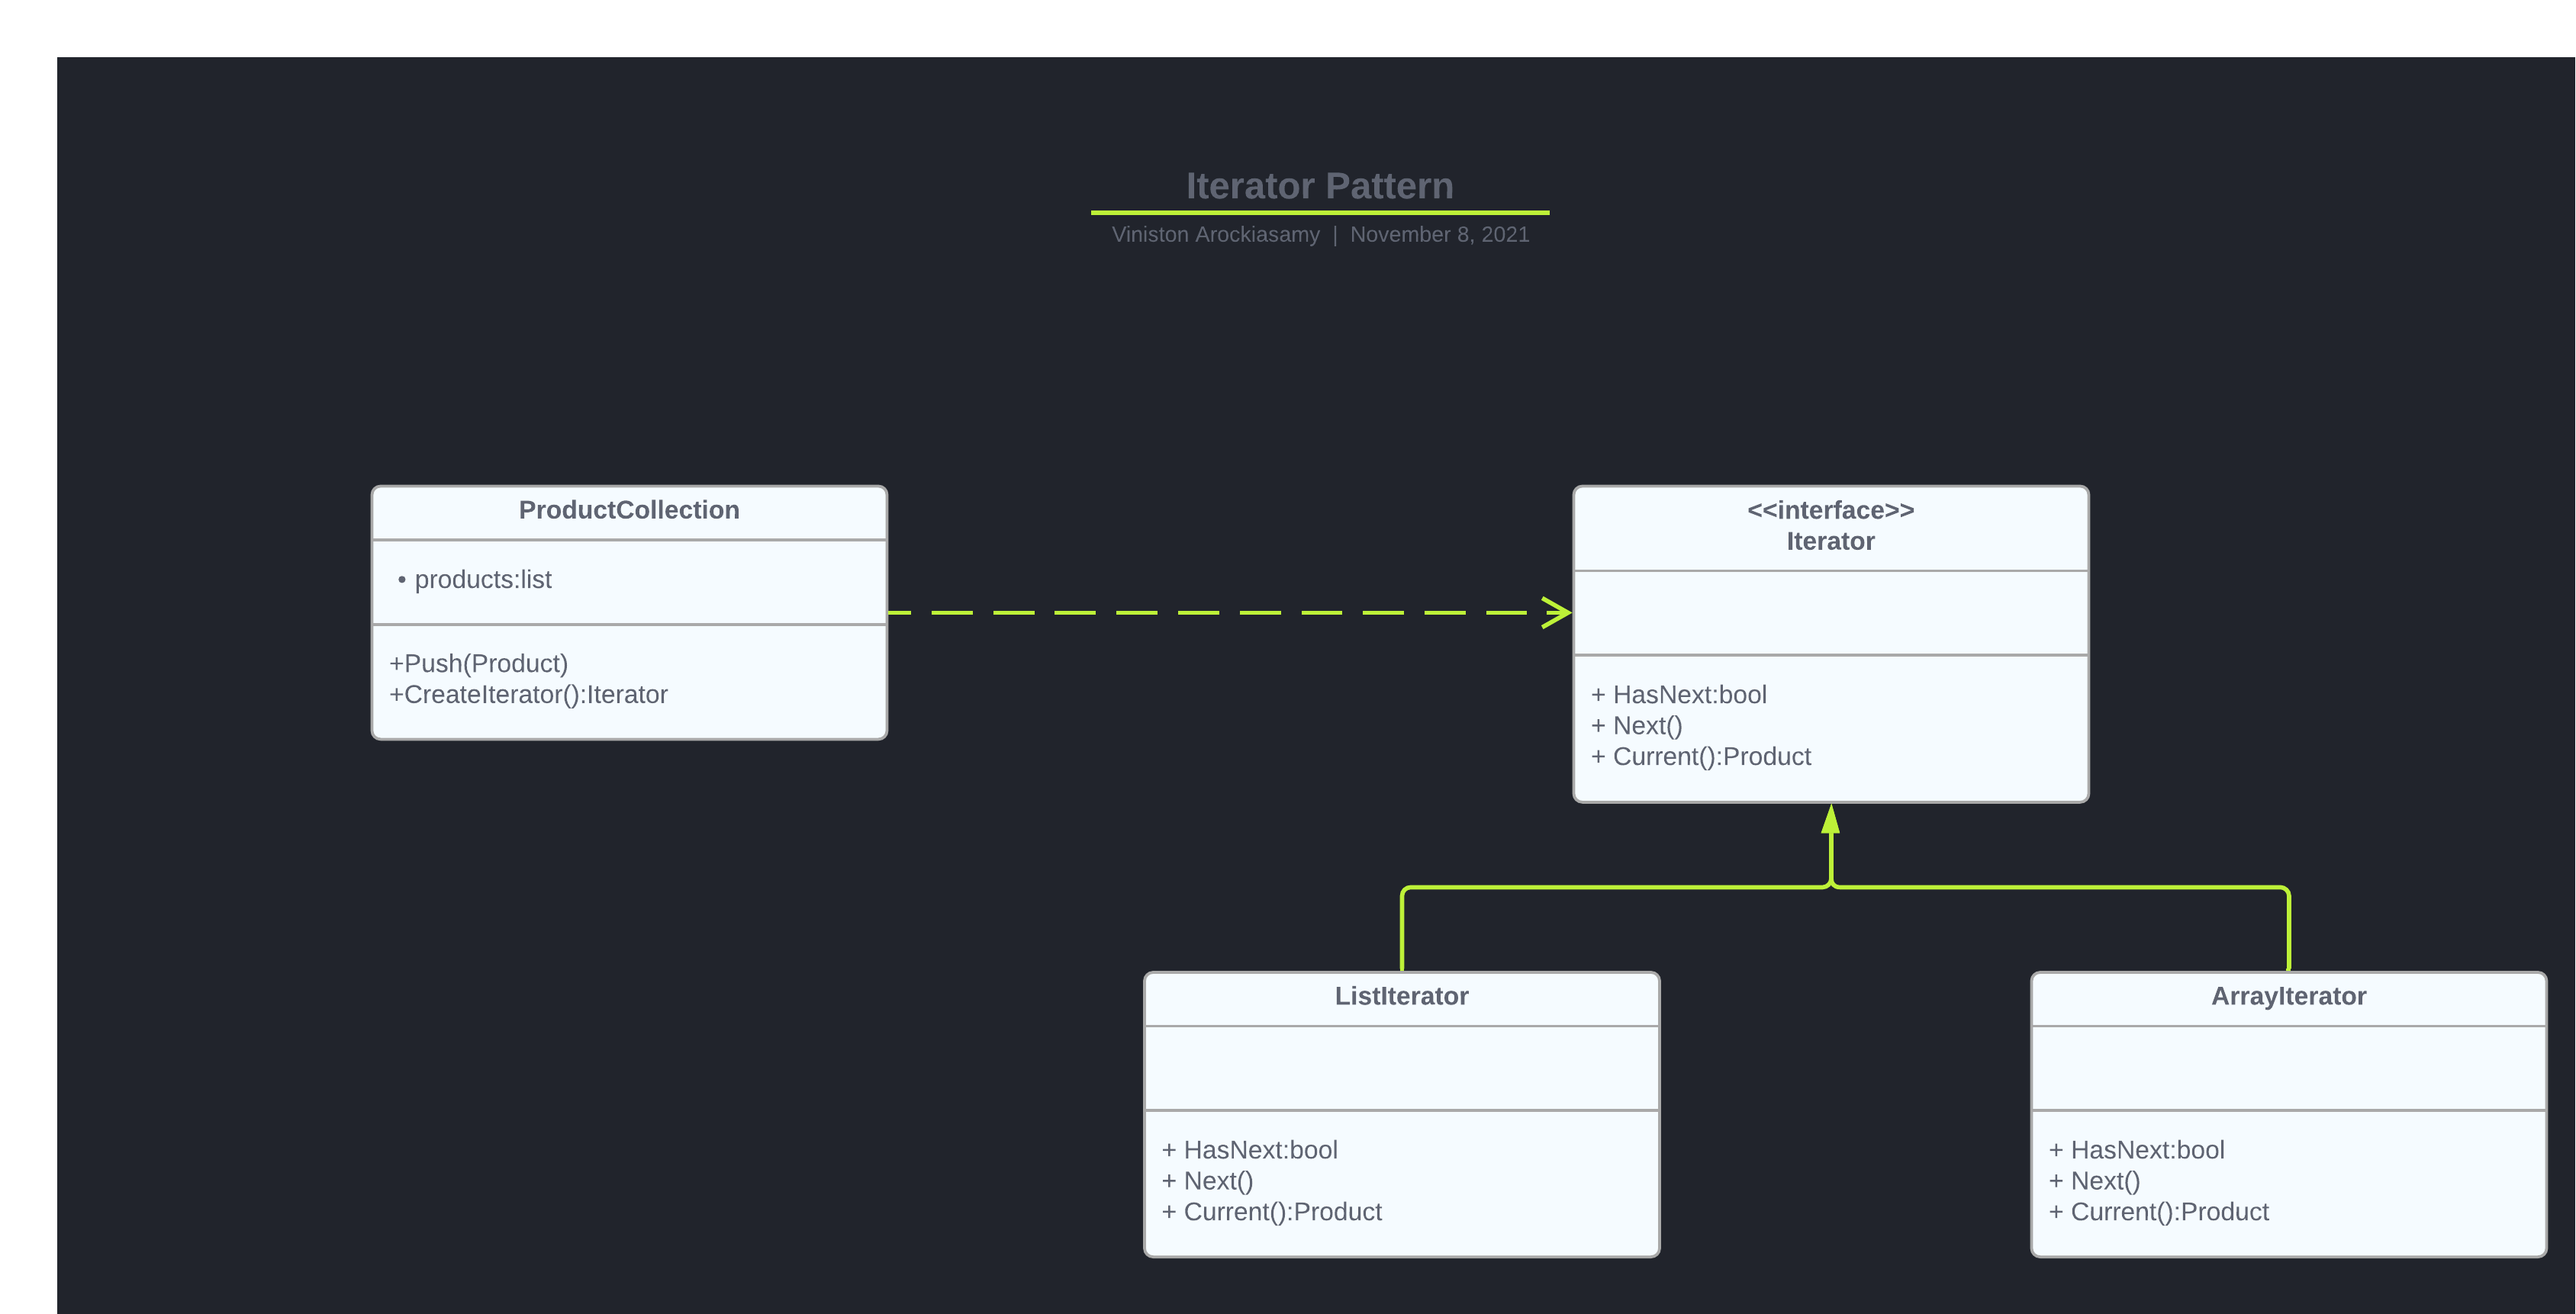
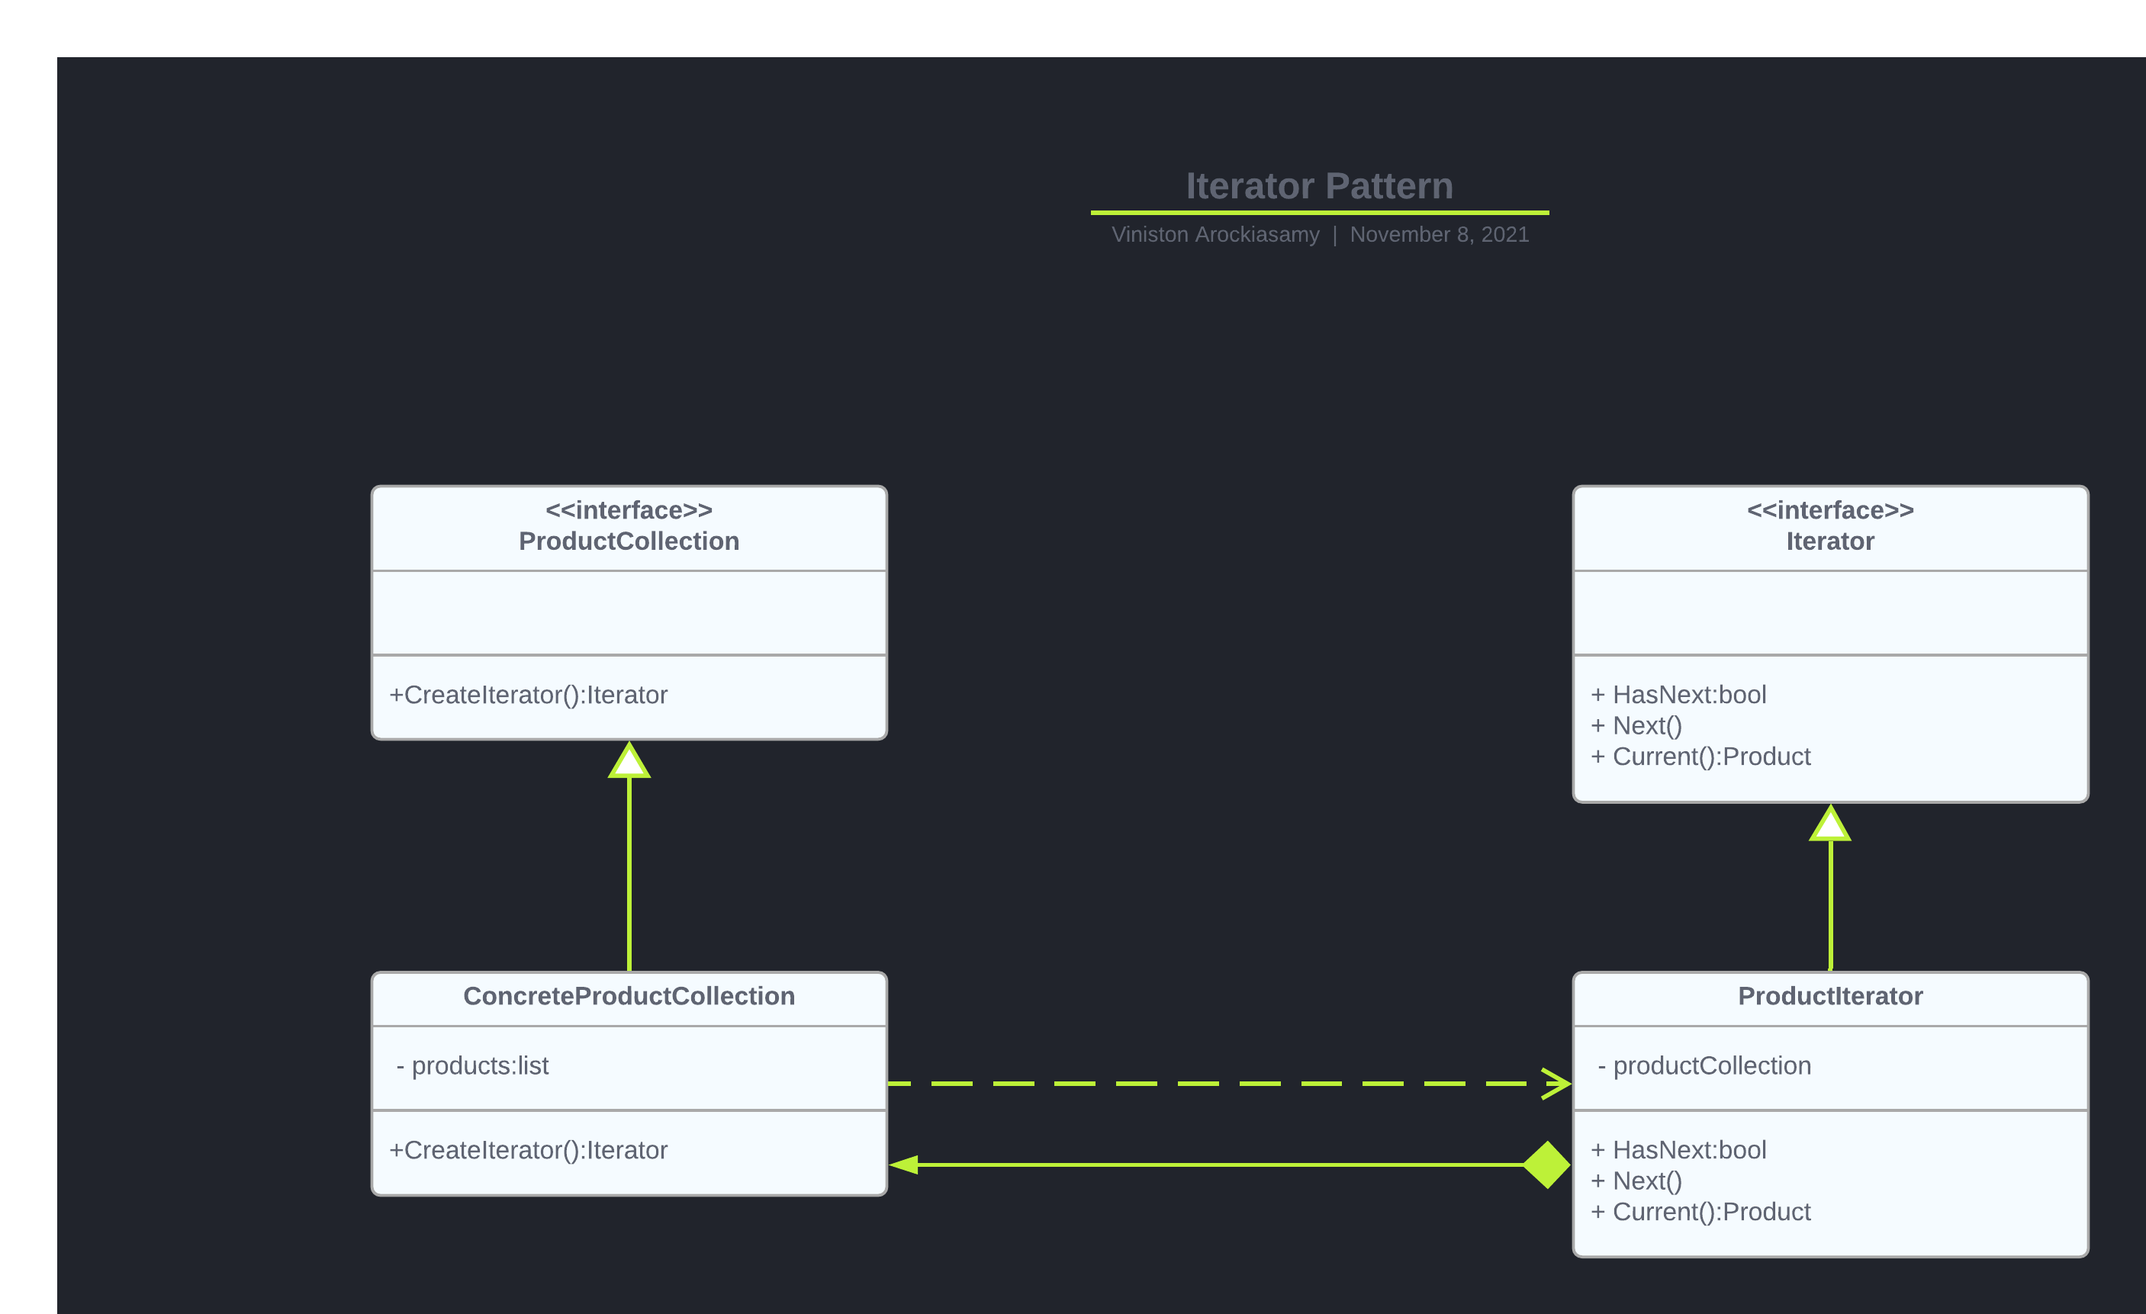
Iterator Pattern

diff --git a/DisignPatterns.Iterator/ConcreteProductCollection.cs b/DisignPatterns.Iterator/ConcreteProductCollection.cs
@@ -1,0 +1,31 @@
+using System.Collections.Generic;
+
+namespace DesignPatterns.Iterator
+{
+    public class ConcreteProductCollection : IProductCollection
+    {
+        private readonly List<Product> _products;
+
+        public ConcreteProductCollection()
+        {
+            _products = new List<Product>();
+        }
+
+        public void Push(Product product)
+        {
+            _products.Add(product);
+        }
+
+        public IIterator CreateIterator()
+        {
+            return new ProductIterator(this);
+        }
+
+        public Product GetProduct(int index)
+        {
+            return _products[index];
+        }
+
+        public int ProductCount => _products.Count;
+    }
+}

diff --git a/DisignPatterns.Iterator/ProductIterator.cs b/DisignPatterns.Iterator/ProductIterator.cs
@@ -1,0 +1,28 @@
+namespace DesignPatterns.Iterator
+{
+    public class ProductIterator : IIterator
+    {
+        private int _index;
+        private readonly ConcreteProductCollection _productCollection;
+
+        public ProductIterator(ConcreteProductCollection productCollection)
+        {
+            _productCollection = productCollection;
+        }
+
+        public bool HasNext()
+        {
+            return _index < _productCollection.ProductCount;
+        }
+
+        public void Next()
+        {
+            _index++;
+        }
+
+        public Product Current()
+        {
+            return _productCollection.GetProduct(_index);
+        }
+    }
+}

diff --git a/DisignPatterns.Iterator/Program.cs b/DisignPatterns.Iterator/Program.cs
@@ -6,7 +6,7 @@ namespace DesignPatterns.Iterator
     {
         static void Main()
         {
-            var productCollection = new ProductCollection();
+            var productCollection = new ConcreteProductCollection();
             productCollection.Push(new Product(1, "Mobile Phone"));
             productCollection.Push(new Product(2, "Laptop"));
 

diff --git a/DisignPatterns.Iterator/IProductCollection.cs b/DisignPatterns.Iterator/IProductCollection.cs
@@ -1,0 +1,7 @@
+namespace DesignPatterns.Iterator
+{
+    public interface IProductCollection
+    {
+        IIterator CreateIterator();
+    }
+}

diff --git a/DisignPatterns.Iterator/IIterator.cs b/DisignPatterns.Iterator/IIterator.cs
@@ -1,6 +1,4 @@
-using System;
-
-namespace DesignPatterns.Iterator
+namespace DesignPatterns.Iterator
 {
     public interface IIterator
     {
